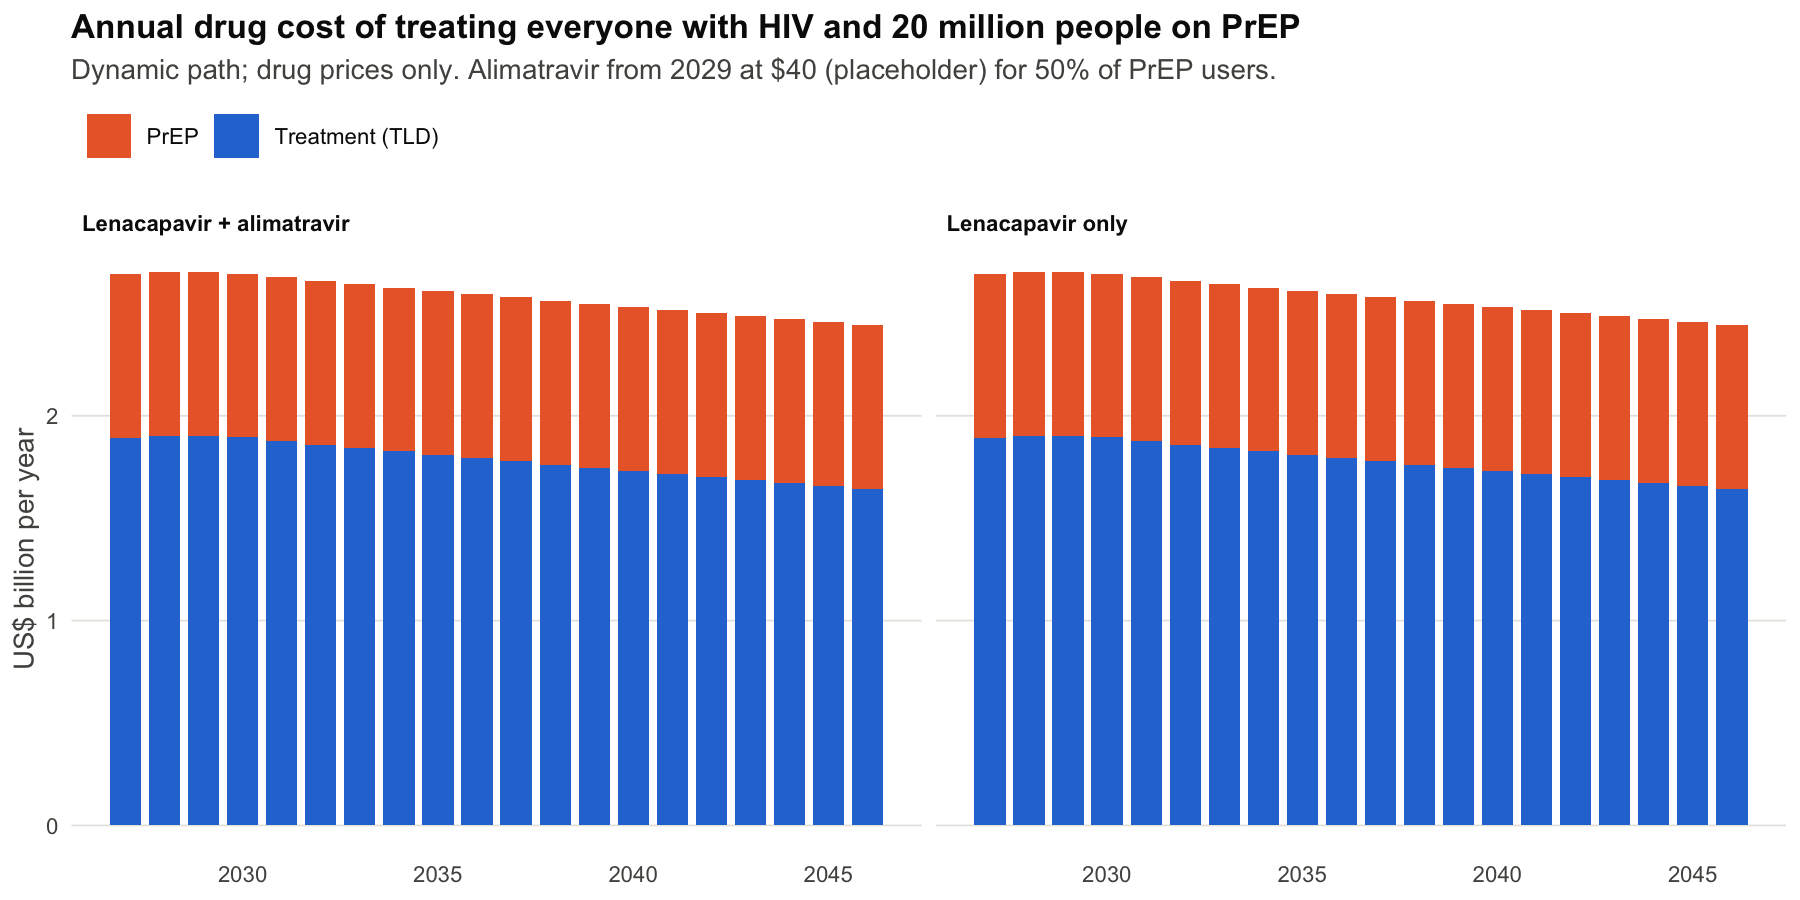
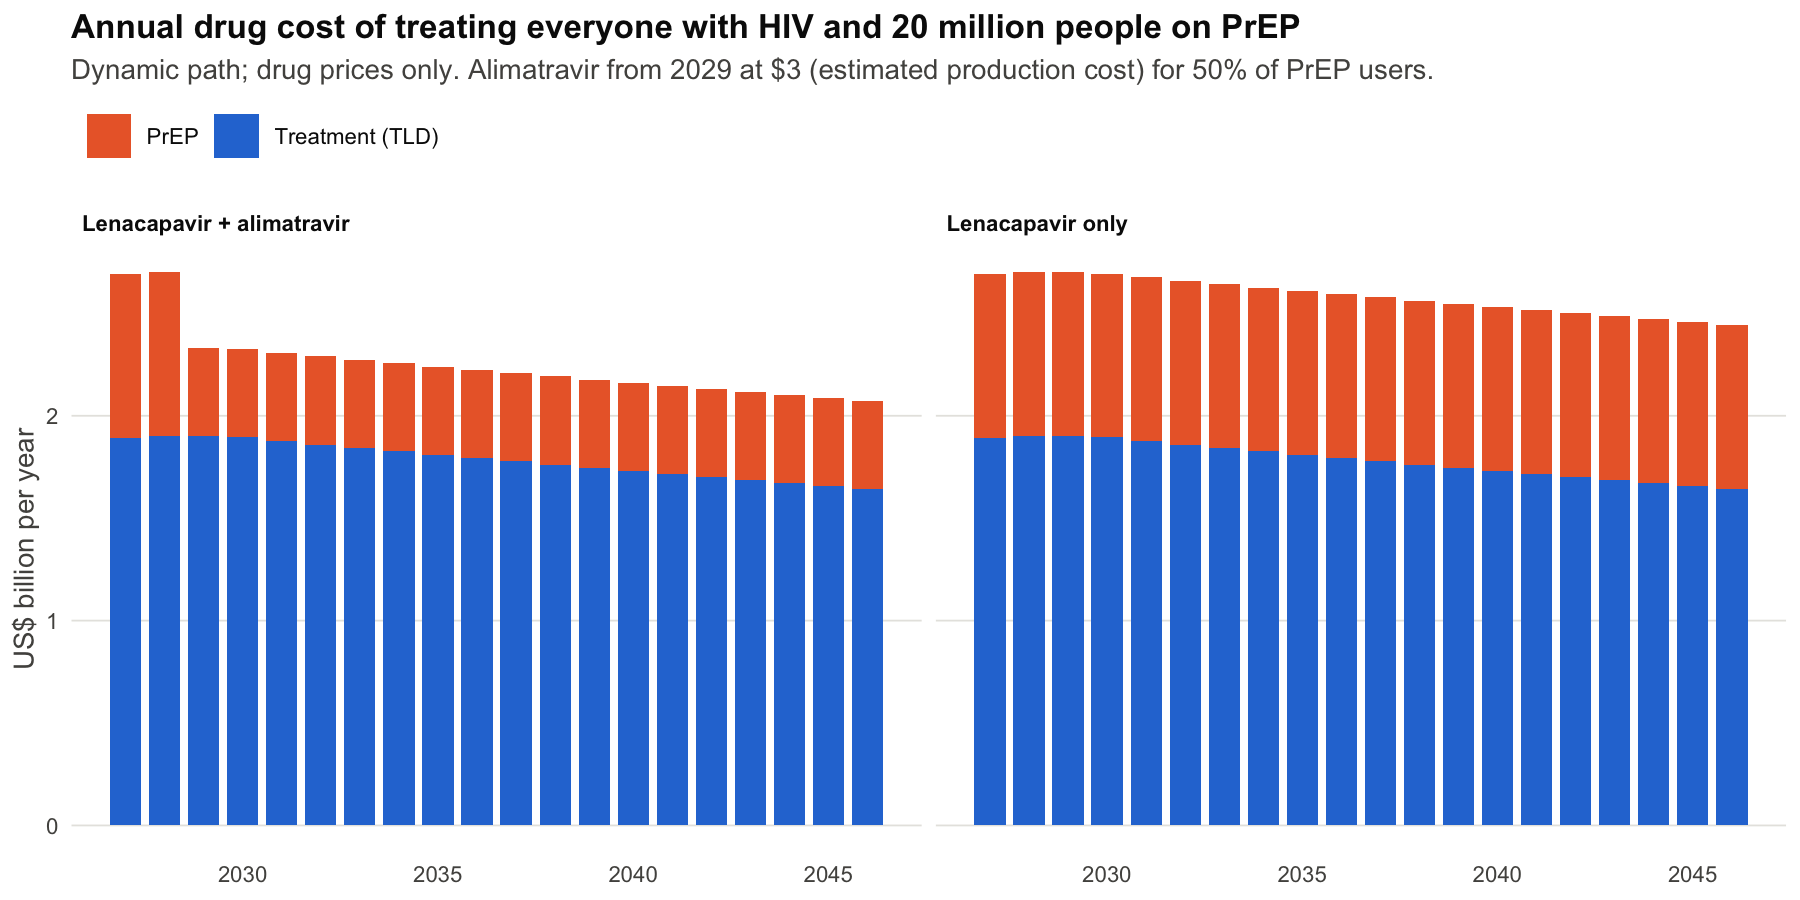
Cost of ending HIV: alimatravir at estimated production cost (3 USD/yr); fit wide tables to page

Changed region(s): [[0.0933, 0.28, 0.4978, 0.4667], [0.4356, 0.0622, 0.8089, 0.0933]]

diff --git a/tables/cost_to_end_hiv/tex/cost_to_end_hiv.tex b/tables/cost_to_end_hiv/tex/cost_to_end_hiv.tex
@@ -2,6 +2,7 @@
 \centering
 \caption{Minimum drug cost of treating everyone with HIV and keeping those at risk on PrEP, 2027--2046}
 \label{tab:cost_to_end_hiv}
+\resizebox{\textwidth}{!}{%
 \begin{tabular}{lcccccc}
 \toprule
  & \multicolumn{3}{c}{Present value, 3\%} & PV, 0\% & PV, 5\% & First-year \\
@@ -9,11 +10,11 @@
 Path: scenario & Treatment & PrEP & Total & Total & Total & cost \\
 \midrule
 Static: Lenacapavir only & 28.3 & 12.3 & 40.5 & 52.9 & 34.6 & 2.6 \\
-Static: Lenacapavir + alimatravir & 28.3 & 12.3 & 40.5 & 52.9 & 34.6 & 2.6 \\
+Static: Lenacapavir + alimatravir & 28.3 & 7.3 & 35.6 & 46.2 & 30.5 & 2.6 \\
 Dynamic: Lenacapavir only & 27.6 & 12.3 & 39.8 & 51.7 & 34.1 & 2.7 \\
-Dynamic: Lenacapavir + alimatravir & 27.6 & 12.3 & 39.8 & 51.7 & 34.1 & 2.7 \\
+Dynamic: Lenacapavir + alimatravir & 27.6 & 7.3 & 34.9 & 45.0 & 30.0 & 2.7 \\
 \bottomrule
-\end{tabular}
+\end{tabular}}
 \par\vspace{4pt}
-\begin{minipage}{\textwidth}\footnotesize US\$ billion, drug prices only (current dollars, no inflation). Treatment: everyone living with HIV on generic TLD at \$45 per person-year. PrEP: 20 million people (UNAIDS) on generic lenacapavir at \$40; in the second scenario 50\% switch to alimatravir from 2029 at a placeholder \$40, with no price set yet. Static: 2025 numbers held constant (41.0 million people with HIV). Dynamic: new infections fall linearly from 1.2 million (2025) to the 200,000 Fast-Track target in 2030, and the 2025 AIDS death rate among people with HIV is held constant; infections fall below deaths in 2029. Delivery costs (testing, visits, supply chain) are excluded, so these are lower bounds.\end{minipage}
+\begin{minipage}{\textwidth}\footnotesize US\$ billion, drug prices only (current dollars, no inflation). Treatment: everyone living with HIV on generic TLD at \$45 per person-year. PrEP: 20 million people (UNAIDS) on generic lenacapavir at \$40; in the second scenario 50\% switch to alimatravir from 2029 at \$3, the estimated cost of production (Hill et al., AIDS 2026); Merck has not announced a price. Static: 2025 numbers held constant (41.0 million people with HIV). Dynamic: new infections fall linearly from 1.2 million (2025) to the 200,000 Fast-Track target in 2030, and the 2025 AIDS death rate among people with HIV is held constant; infections fall below deaths in 2029. Delivery costs (testing, visits, supply chain) are excluded, so these are lower bounds.\end{minipage}
 \end{table}
